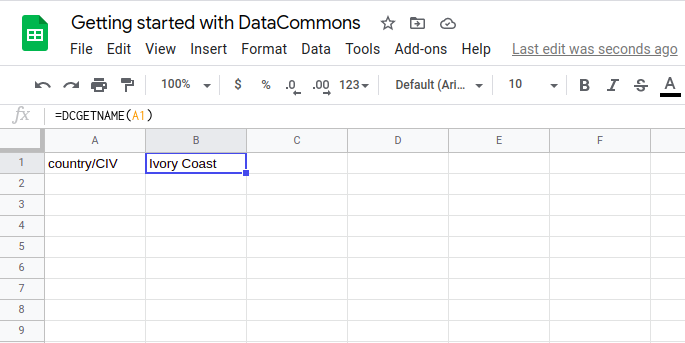
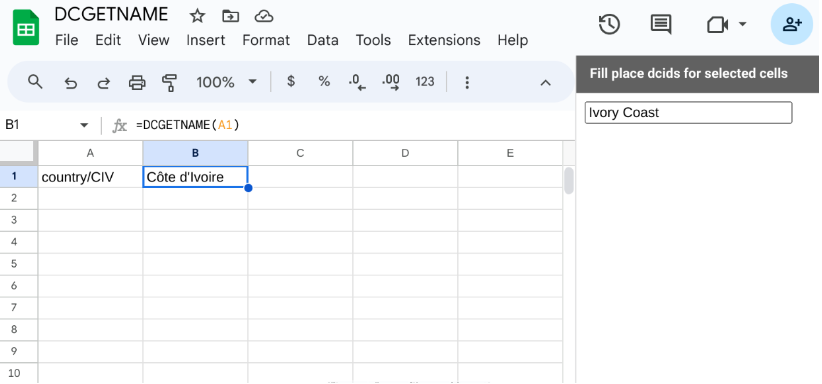
Updates to Sheets get_name.md file

diff --git a/api/sheets/get_name.md b/api/sheets/get_name.md
@@ -1,46 +1,65 @@
 ---
 layout: default
-title: Node Name
+title: Returning the Names Associated with a DCID
 nav_order: 1
 parent: Google Sheets
 grand_parent: API
 ---
 
-# Get a node's name
+# Returning the Names Associated with a DCID
 
-Given a cell or a column range of cells with [DCIDs](/glossary.html#dcid) (unique identifiers for all entities in the Data Commons knowledge graph), return the names associated with the given DCIDs.
+The `=DCGETNAME(*dcids*)` formula returns the names associated with given [DCIDs](/glossary.html#dcid) to a cell or a column range of cells.
 
-## General information about this formula
+Note: Be sure to follow the instructions for [Installing and Enabling the Sheets Add-On](https://docs.datacommons.org/api/sheets/) before using this formula.
 
-**Formula**: `=DCGETNAME(dcids)`
+## Formula
 
-**Required arguments**:
+```
+=DCGETNAME(dcids)
+```
 
-* `dcids` - A list of nodes to query, identified by their DCIDs.
+## Required Arguments
+
+`dcids` - A list of DCID nodes to query
 
 ## Examples
 
+This section contains examples of returning the names associated with given DCIDs.
+
 Before trying this method out, make sure to follow the setup directions in [the main section for Sheets docs](/api/sheets/index.html).
 
-### Example 1: Retrieve the name of a country by its DCID.
+### Example 1: Retrieve the Name of a Country by its DCID
 
-![](/assets/images/sheets/sheets_get_name_cote_d_ivoire_cropped.png)
+To retrieve the name of a country by its DCID, perform the following steps:
 
-### Example 2: Retrieve the names of a collection of cell lines.
+1. Place your cursor in the cell where you want to add a DCID. In this case, cell A1.
+2. Click in the search box for the **Fill place dcids for selected cells** section. For this example, enter “Ivory Coast”. The cell is populated with a DCID of “country/CIV”.
+3. Move to the cell where you want to retrieve the country name.
+4. Enter the formula **<code>=DCGETNAME(A1)</code></strong> to retrieve the country name and press <strong>Enter</strong>.  The French spelling of Ivory Coast (Côte d'Ivoire) populates the cell.
 
-![](/assets/images/sheets/sheets_get_name_cell_lines_cropped.png)
+![](../../assets/images/sheets/sheets_get_name_cote_d_ivoire_cropped.png)
 
->  **TIP:**
->
->  It's best to minimize the number of function calls to `DCGETNAME` by using a single call to get names for a column of nodes. This is because a spreadsheet will make one call to a Google server [per custom function call](https://developers.google.com/apps-script/guides/sheets/functions#optimization). If your sheet contains thousands of separate calls to `DCGETNAME`, expect it to be slow and with errors.
+### Example 2: Retrieve the Names of a Collection of Cells
 
+To retrieve the names of countries by a collection of cells, perform the following steps:
 
-## Error returns
+1. Enter into column A the DCIDs that are shown in the following image.
+2. In cell B1, enter the formula `=DCGETNAME(A1:A4)`.
+3. Press **Enter** and the names of the countries for each DCID populate in column B.
 
-If a DCID does not exist, this method returns nothing:
+![](../../assets/images/sheets/sheets_get_name_cell_lines_cropped.png)
 
-![](/assets/images/sheets/sheets_get_name_wrong_dcid_cropped.png)
+> **Note**:
+> 
+> It’s best to minimize the number of function calls to `=DCGETNAME(dcids)` by using a single call to get the names for a column of nodes. This is because a spreadsheet will make one call to a Google server _[per custom function call]([https://developers.google.com/apps-script/guides/sheets/functions#optimization)_](https://developers.google.com/apps-script/guides/sheets/functions#optimization)_). If your sheet contains many separate calls to <code>=DCGETNAME(<em>dcids</em>)</code>, you can expect it to be slow and return errors.
 
-If an empty cell is provided as a DCID, this method returns an error value:
+## Error Returns
 
-![](/assets/images/sheets/sheets_get_name_no_input_cropped.png)
+The `=DCGETNAME(dcids)` formula returns the name associated with a specified DCID. See the Examples section above for examples of positive returns. If a DCID does not exist, the`=DCGETNAME(dcids)` formula does not return a value. For example, because the “geoId/123123123” DCID does not exist, no value is returned to cell B1 in the following sheet:
+
+![](../../assets/images/sheets/sheets_get_name_wrong_dcid_cropped.png)
+
+If you provide an empty cell for a DCID, the `=DCGETNAME(*dcids*)` formula returns a value of #ERROR!, as shown show in the following image:
+
+![](../../assets/images/sheets/sheets_get_name_no_input_cropped.png)
+
